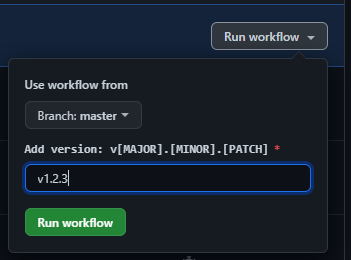
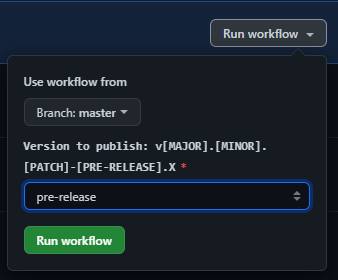
chore: update dependencies and configuration

diff --git a/src/__test__/greeting.service.spec.ts b/src/__test__/greeting.service.spec.ts
@@ -1,5 +1,5 @@
 import { Test, TestingModule } from '@nestjs/testing';
-import { GreetingService } from '../greeting/services';
+import { GreetingService } from '../greeting/services/greeting.service';
 
 describe('GreetingService', () => {
   let service: GreetingService;

diff --git a/.eslintrc.js b/.eslintrc.js
@@ -9,6 +9,7 @@ module.exports = {
     'plugin:@typescript-eslint/eslint-recommended',
     'plugin:@typescript-eslint/recommended',
   ],
+  ignorePatterns: ['**/__test__/**/*'],
   root: true,
   env: {
     node: true,

diff --git a/src/greeting/greeting.module.ts b/src/greeting/greeting.module.ts
@@ -1,5 +1,5 @@
 import { Global, Module } from '@nestjs/common';
-import { GreetingService } from './services';
+import { GreetingService } from './services/greeting.service';
 
 @Global()
 @Module({

diff --git a/README.md b/README.md
@@ -175,10 +175,10 @@ git push
 
 En la carpeta `.github/workflows` se encuentra los procesos automatizados para **GitHub Actions**, en esta se encuentra
 el pipeline para el publish, el cual realiza todos los pasos correspondientes de manera automatizada para compilar el
-paquete, publicarlo y versionar el repositorio con solo ingresar manualmente la version a desplegar, pero para
+paquete, publicarlo y versionar el repositorio con solo seleccionar el tipo de version a desplegar, pero para
 poder utilizar este método, es importante configurar los workflows que se detalla a continuación.
 
-<img src="./.readme-static/github-workflow-publish.png" width="350" alt="Workflow to publish" />
+<img src=".readme-static/github-workflow-publish.png" width="300" alt="Workflow to publish" />
 
 <a name="workflows"></a>
 
